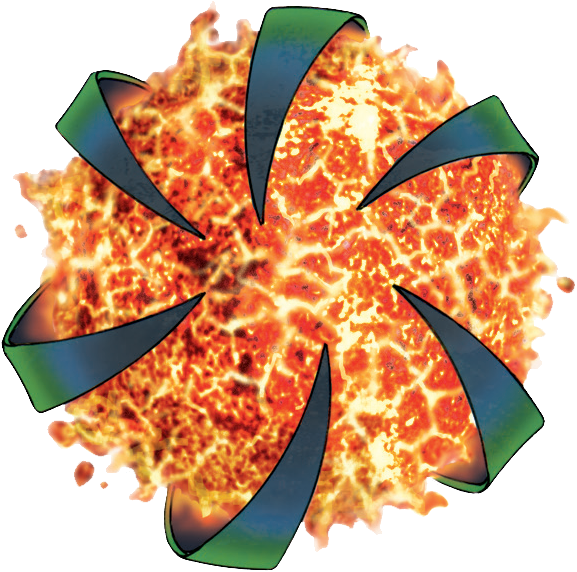
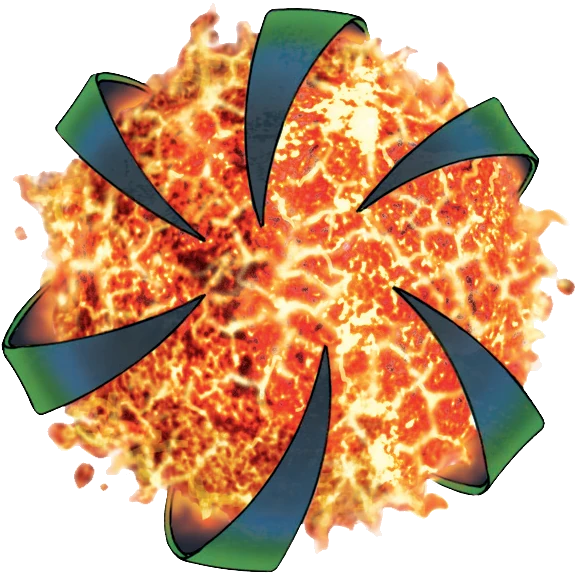
actually fix aspect ratio

diff --git a/rules/battletech-outworlds-wastes-web.tex b/rules/battletech-outworlds-wastes-web.tex
@@ -49,7 +49,7 @@
 
   \fontsize{35}{42}\bfseries\selectfont\MakeUppercase{Outworlds Wastes}
 
-  \includegraphics[alt='Outworlds Alliance logo', width=5.04in, height=5in]{img/Outworlds-Alliance.png}
+  \includegraphics[alt='Outworlds Alliance logo', width=5in, height=5in]{img/Outworlds-Alliance.png}
 
   \LARGE\bfseries{Casual BattleTech League Framework}
 \end{center}
